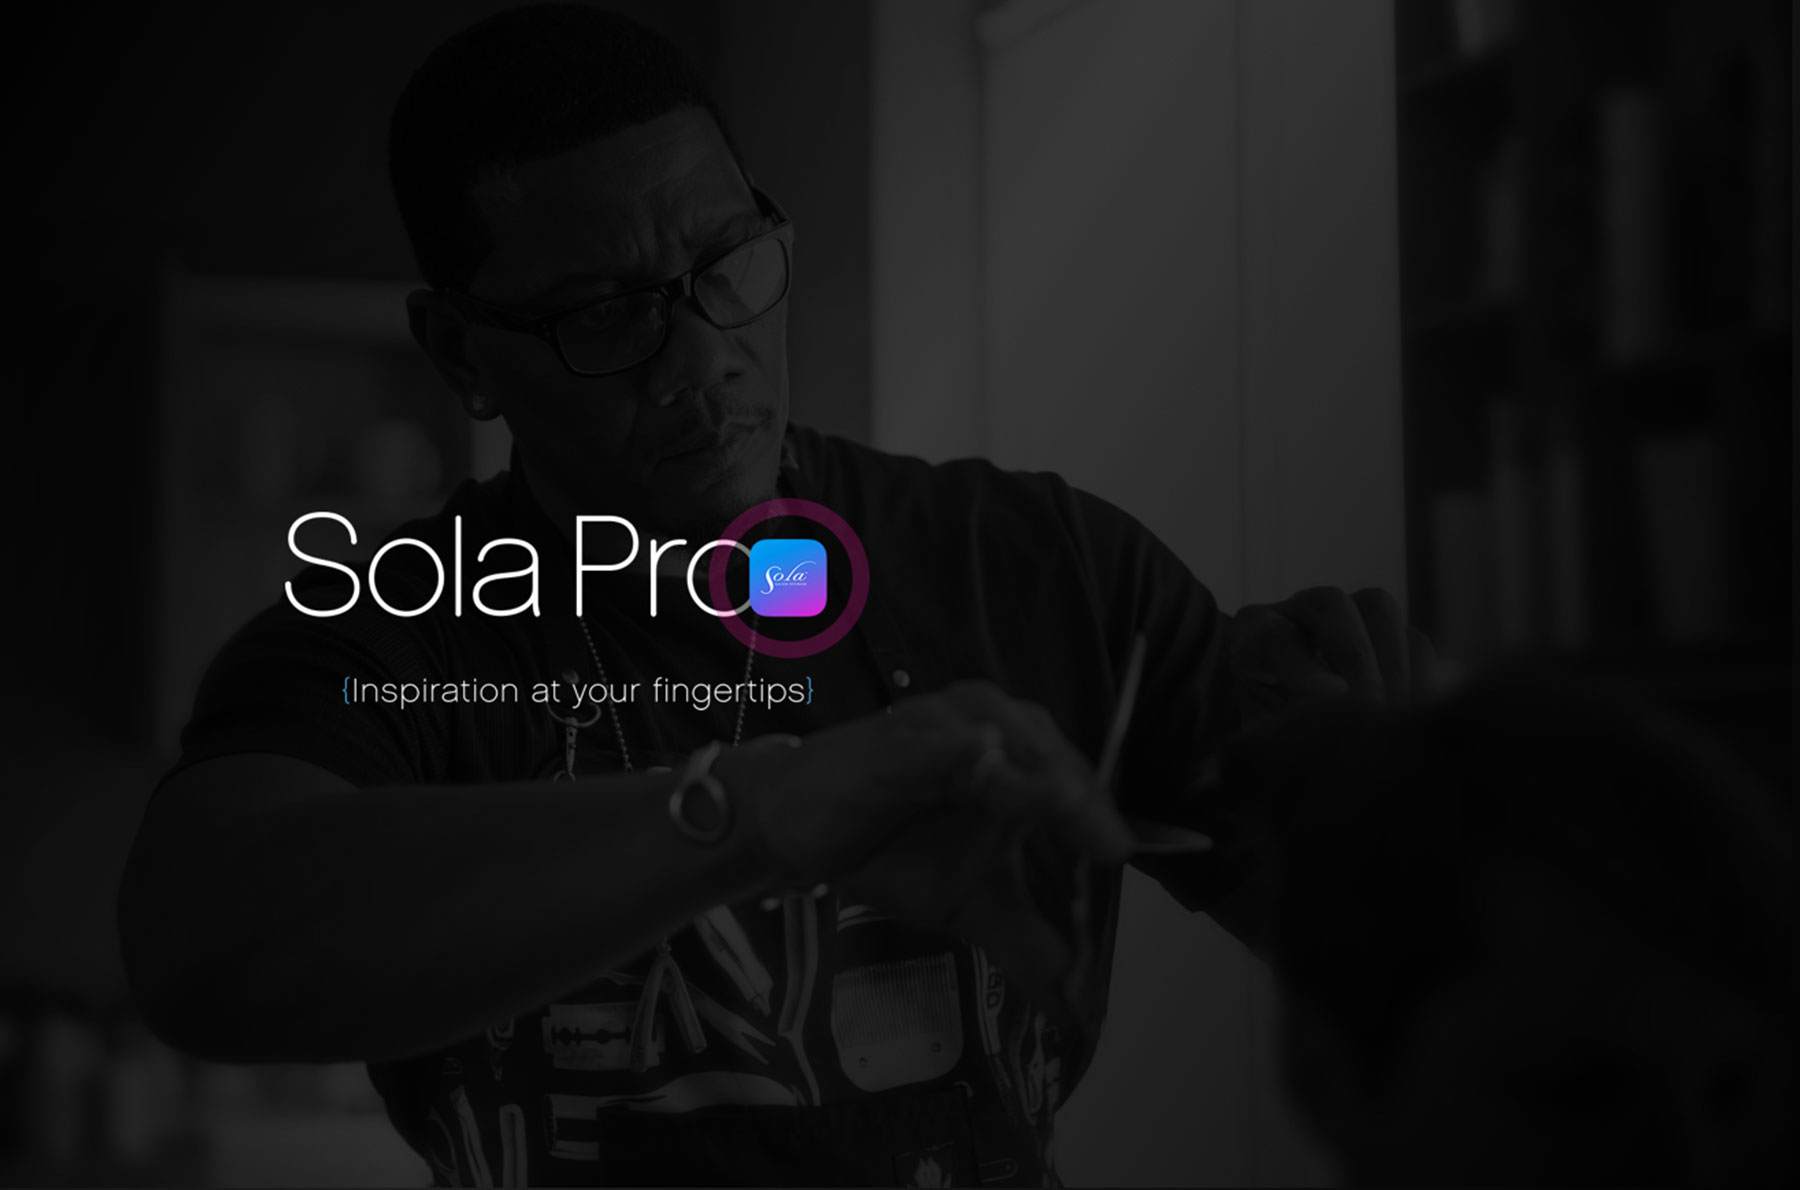
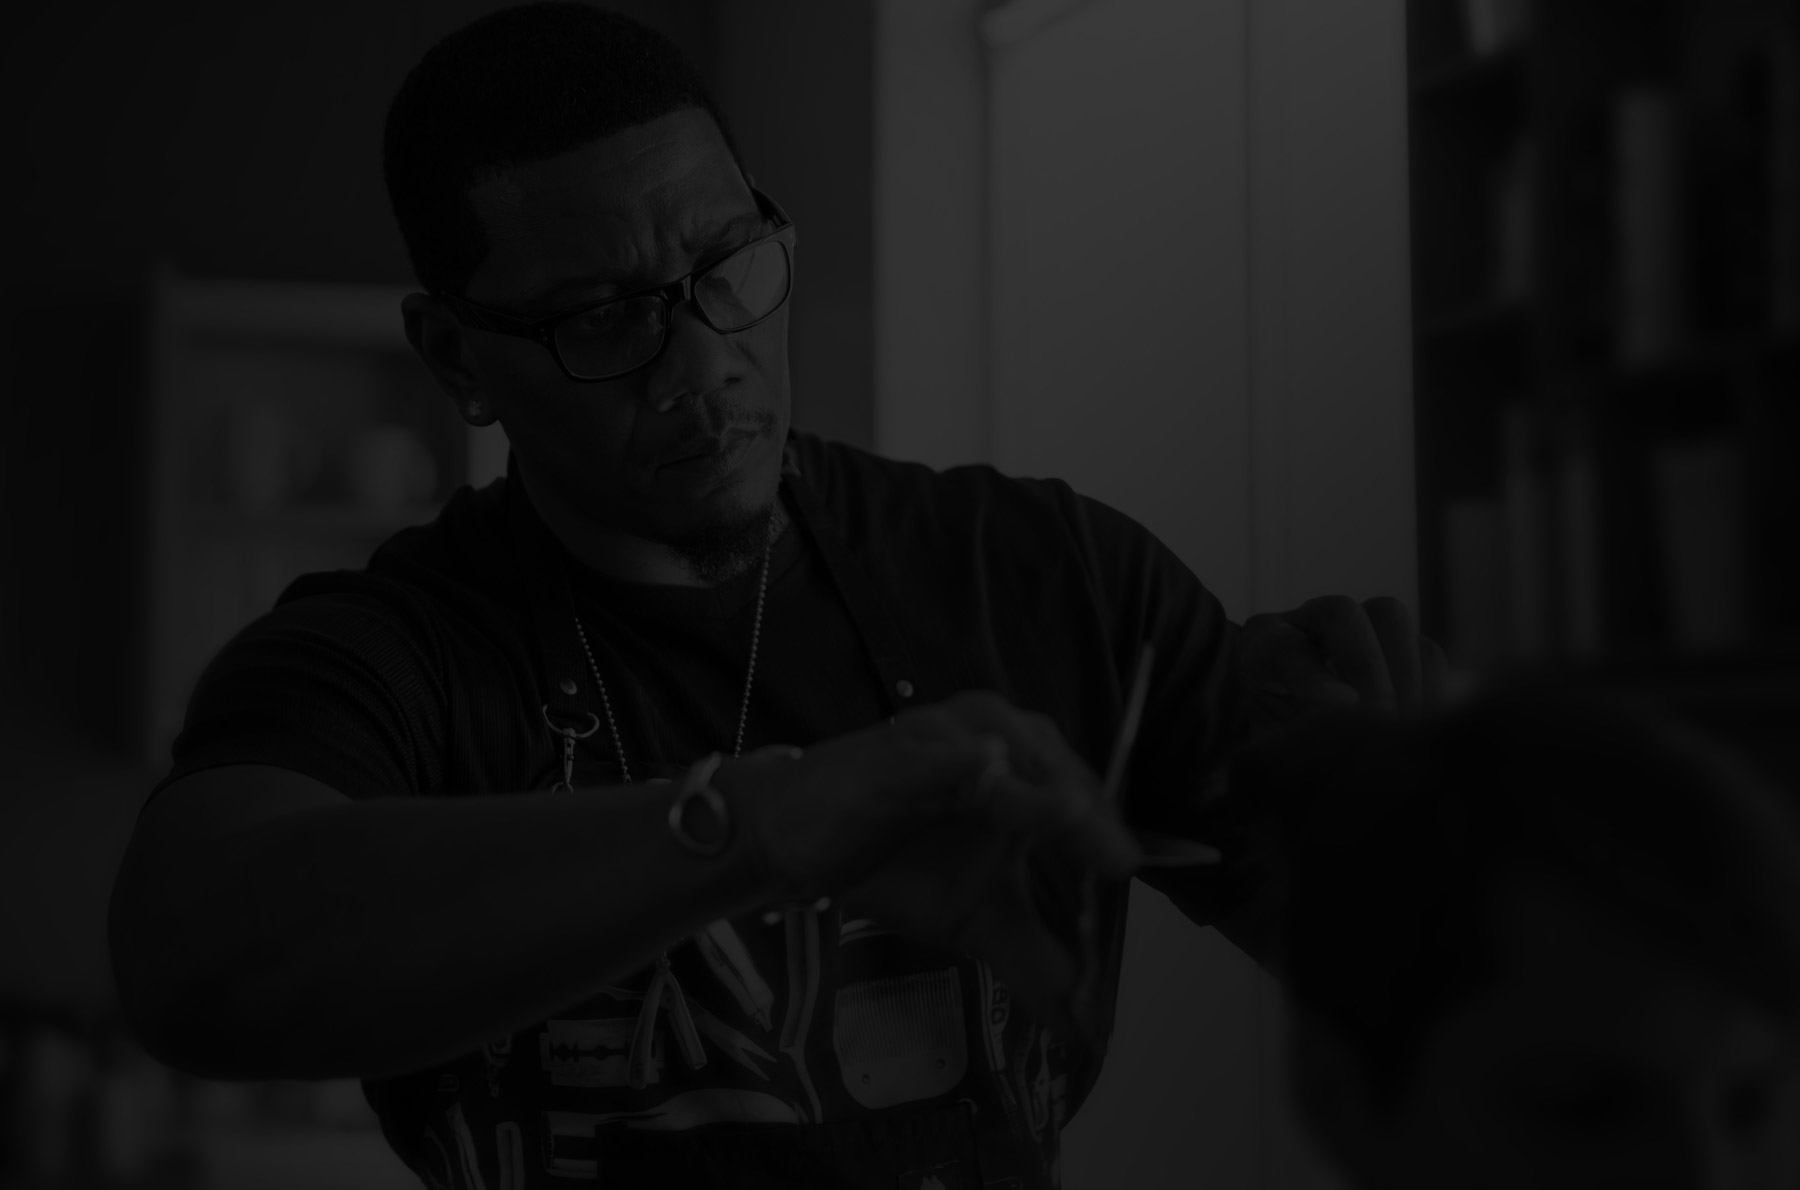
hide iphones

diff --git a/app/assets/stylesheets/public_website/solapro.css.scss b/app/assets/stylesheets/public_website/solapro.css.scss
@@ -1029,6 +1029,7 @@ and (device-aspect-ratio: 40/71) {
       display: none;
     }
     .sola-pro-iphone {
+      display: none;
       background-size: (774px / 3) (1468px / 3);
       width: (774px / 3);
       height: (1468px / 3);

diff --git a/app/assets/stylesheets/public_website/solagenius.css.scss b/app/assets/stylesheets/public_website/solagenius.css.scss
@@ -1001,6 +1001,7 @@ and (device-aspect-ratio: 40/71) {
     }
 
     .sola-genius-iphone {
+      display: none;
       background-size: (774px / 3) (1468px / 3);
       width: (774px / 3);
       height: (1468px / 3);
